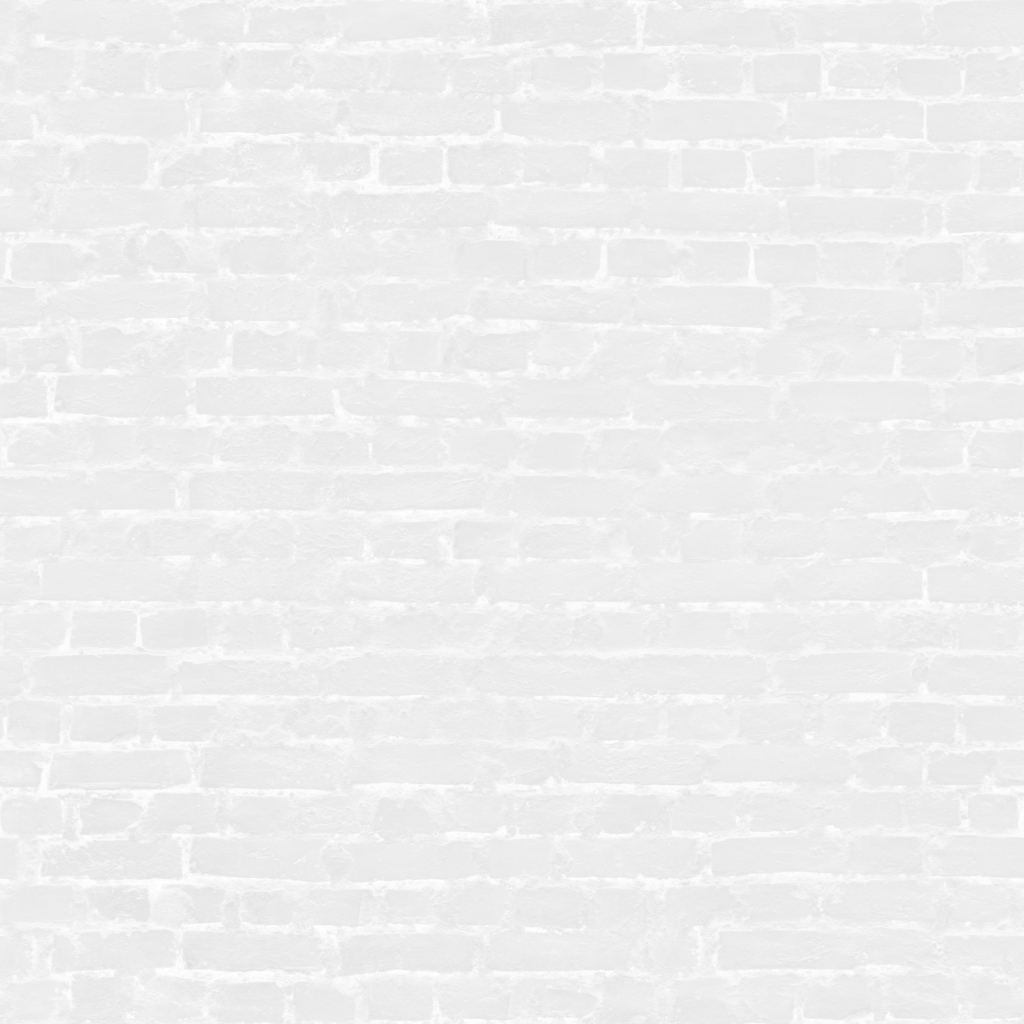
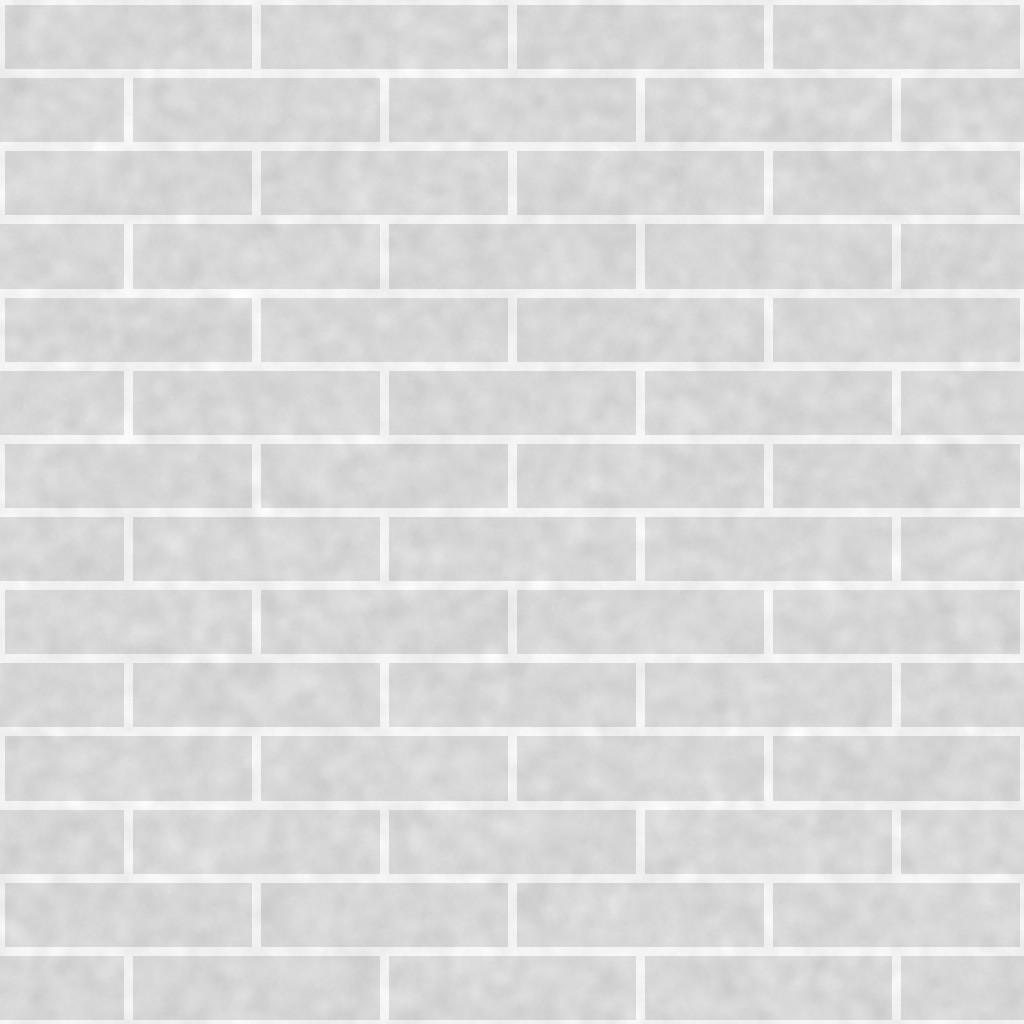
v11b: loft look — reference-size white brick, light neutral tile, real soft shadows (PCFSoft), low fill, mesh-grid shelves, cream rug/pouf, capture vignette; initial framing settles then locks; fix state reset on reload

diff --git a/app.js b/app.js
@@ -86,12 +86,12 @@ function validState(v) {
     w.sections = w.sections.filter(s => s && typeof s === 'object').map(s => { s.w = num(s.w, 10, 200, 60);
       s.items = (Array.isArray(s.items) ? s.items : []).filter(o => o && REAL_DEPTH[o.t] && typeof o.y === 'number' && isFinite(o.y) && o.y >= 0 && o.y <= 300);
       s.items.forEach(o => { if (!REAL_DEPTH[o.t][o.d]) o.d = +Object.keys(REAL_DEPTH[o.t])[0]; if (o.h != null) o.h = num(o.h, 20, 400, 85);
-        if (o.pr != null) o.pr = Array.isArray(o.pr) ? o.pr.filter(p => p && PROPK[p.k]).map(p => ({ k: p.k, u: num(p.u, 0, 1, 0.5) })) : []; });
+        if (o.pr != null) o.pr = Array.isArray(o.pr) ? o.pr.filter(p => p && (typeof PROPK === 'undefined' || !PROPK || PROPK[p.k])).map(p => ({ k: p.k, u: num(p.u, 0, 1, 0.5) })) : []; });
       return s; });
     if (!w.sections.length && wi === 0) bad++; return w; });
   if (bad > 1) return null;
   if (v.plants != null && !Array.isArray(v.plants)) v.plants = [];
-  if (Array.isArray(v.plants)) v.plants = v.plants.filter(p => p && PLANTS[p.k] && isFinite(p.x) && isFinite(p.z)).map(p => ({ ...p, s: num(p.s, 0.3, 3, 1), r: num(p.r, -100, 100, 0) }));
+  if (Array.isArray(v.plants)) v.plants = v.plants.filter(p => p && (typeof PLANTS === 'undefined' || !PLANTS || PLANTS[p.k] || ['fig', 'monstera', 'olive', 'mirror', 'pouf'].includes(p.k)) && isFinite(p.x) && isFinite(p.z)).map(p => ({ ...p, s: num(p.s, 0.3, 3, 1), r: num(p.r, -100, 100, 0) }));
   if (v.room != null && typeof v.room !== 'object') delete v.room; if (v.dm != null && typeof v.dm !== 'object') delete v.dm;
   return v;
 }
@@ -257,10 +257,10 @@ function normalTex(v, str) {
 function setWallCol(m, c) { const col = new THREE.Color(c); m.color.copy(col).multiplyScalar(m.userData.kd); m.emissive.copy(col).multiplyScalar(m.userData.ke); }
 const NSTR = { brick: 7, stone: 7, slats: 6, woodp: 3, conc2: 2.2, beige: 2.6, koroed: 3, trav: 2 };
 // real CC0 photo textures (Poly Haven, 1k) with normal + roughness maps for the key finishes; procedural for the rest
-const PHW = { brick: ['painted_brick', 2.0, 1.4], beige: ['beige_wall_001', 2.4, 1, 1.1], lime: ['white_plaster_02', 2.2, 1] };
+const PHW = { brick: ['painted_brick', 1.04, 1.0], beige: ['beige_wall_001', 2.4, 1, 1.1], lime: ['white_plaster_02', 2.2, 1] };
 function wallMat() { const v = finVar(), ph = PHW[v];
   if (ph) { const rp = (1 / ph[1]).toFixed(4), sunM = S.room.shP === 'sun', m = new THREE.MeshStandardMaterial({ map: tex(ph[0] + '_diff', true, rp), emissiveMap: tex(ph[0] + '_diff', true, rp), normalMap: tex(ph[0] + '_nor_gl', false, rp), normalScale: new THREE.Vector2(ph[2], ph[2]), roughnessMap: tex(ph[0] + '_rough', false, rp), roughness: 1, metalness: 0, envMapIntensity: 0.35, toneMapped: false });
-    const gn = ph[3] || 1; m.userData = { wall: true, kd: (sunM ? 0.6 : 0.66) * gn, ke: (sunM ? 0.36 : 0.38) * gn }; setWallCol(m, S.wall); return m; }
+    const gn = ph[3] || 1, lf = S.roomPre === 'loft' && v === 'brick'; m.userData = lf ? { wall: true, kd: 0.74, ke: 0.05 } : { wall: true, kd: (sunM ? 0.6 : 0.66) * gn, ke: (sunM ? 0.36 : 0.38) * gn }; if (lf) m.roughness = 0.85; setWallCol(m, S.wall); return m; }
   const t = finishTex(v).clone(); t.needsUpdate = true; const k = FINK[v] || 0.9; t.repeat.set(1 / k, 1 / k); const n = normalTex(v, NSTR[v] || 1.4).clone(); n.needsUpdate = true; n.repeat.copy(t.repeat);
   const sunM = S.room.shP === 'sun', m = new THREE.MeshStandardMaterial({ map: t, emissiveMap: t, normalMap: n, roughness: 0.93, metalness: 0, envMapIntensity: 0.25, toneMapped: false });
   m.userData = { wall: true, kd: sunM ? 0.55 : 0.62, ke: sunM ? 0.4 : 0.42 }; /* lit PBR wall: relief reads in the light, emissive keeps the color clean */ setWallCol(m, S.wall); return m; }
@@ -404,6 +404,8 @@ function bracket(g, x, y, L) {
   g.add(box(0.016, 0.02, 0.01, x, y - 0.01, ZB + L - 0.005, M.metal));
 }
 const ROD_G = new THREE.CylinderGeometry(1, 1, 1, 32, 1).translate(0, 0.5, 0), HOOK_G = new THREE.TorusGeometry(0.0175, 0.0042, 12, 32, Math.PI * 1.7), RIV_G = new THREE.CylinderGeometry(0.0035, 0.0035, 0.007, 12);
+let _GRM = null, _GRK = null; function gridMat() { if (_GRM && _GRK === M.metal) return _GRM; const c = document.createElement('canvas'); c.width = c.height = 64; const g = c.getContext('2d'); g.fillStyle = '#000'; g.fillRect(0, 0, 64, 64); g.fillStyle = '#fff'; g.fillRect(0, 0, 64, 9); g.fillRect(0, 0, 9, 64);
+  const t = new THREE.CanvasTexture(c); t.wrapS = t.wrapT = THREE.RepeatWrapping; t.repeat.set(34, 15); t.anisotropy = 4; _GRK = M.metal; _GRM = M.metal.clone(); _GRM.alphaMap = t; _GRM.alphaTest = 0.5; _GRM.side = THREE.DoubleSide; _GRM.normalMap = null; return _GRM; }
 let _CHE = null; function chromeEnv() { if (_CHE) return _CHE; const c = document.createElement('canvas'); c.width = 512; c.height = 256; const g = c.getContext('2d');
   const gr = g.createLinearGradient(0, 0, 0, 256); gr.addColorStop(0, '#fdfdfd'); gr.addColorStop(0.36, '#c9ced4'); gr.addColorStop(0.49, '#3a3d42'); gr.addColorStop(0.55, '#16171a'); gr.addColorStop(0.75, '#6b6e72'); gr.addColorStop(1, '#2a2b2d'); g.fillStyle = gr; g.fillRect(0, 0, 512, 256);
   g.fillStyle = '#ffffff'; [[40, 50], [200, 30], [330, 60], [450, 24]].forEach(([x, w]) => g.fillRect(x, 30, w, 70));
@@ -431,7 +433,7 @@ function buildItem(g, item, x0, x1, sec) {
     const lip = new THREE.Mesh(new RoundedBoxGeometry(x1 - x0 - 0.002, 0.042, 0.008, 2, 0.0028), M.metal); lip.position.set(mid, y - 0.01, zf + 0.004); lip.castShadow = lip.receiveShadow = true; g.add(lip);
     const rim = new THREE.Mesh(new RoundedBoxGeometry(x1 - x0 - 0.002, 0.009, 0.02, 2, 0.0035), M.metal); rim.position.set(mid, y + 0.0075, zf - 0.006); rim.castShadow = true; g.add(rim);
   } else if (item.t === 'metal') {
-    g.add(box(x1 - x0, 0.0045, dep, mid, y + 0.00225, z0 + dep / 2, M.metal));
+    g.add(box(x1 - x0, 0.0045, dep, mid, y + 0.00225, z0 + dep / 2, S.roomPre === 'loft' ? gridMat() : M.metal));
     const f = new THREE.Mesh(new RoundedBoxGeometry(x1 - x0, 0.038, 0.007, 2, 0.0025), M.metal); f.position.set(mid, y - 0.015, zf); f.castShadow = true; g.add(f);
     g.add(box(x1 - x0, 0.024, 0.006, mid, y + 0.012, z0, M.metal));
   } else if (item.t === 'ldsp') {
@@ -751,8 +753,8 @@ function mirrorModel() { const g = new THREE.Group(), W = 0.62, H = 1.72, f = 0.
   g.position.z = 0; return g; }
 // square upholstered pouf in soft velvet with a piped top edge
 function poufModel() { const g = new THREE.Group(), s = 0.42, h = 0.44;
-  const c = document.createElement('canvas'); c.width = c.height = 128; const x = c.getContext('2d'); x.fillStyle = '#8f7570'; x.fillRect(0, 0, 128, 128);
-  for (let i = 0; i < 1800; i++) { x.fillStyle = `rgba(${Math.random() < 0.5 ? '255,240,235' : '40,20,20'},${Math.random() * 0.08})`; x.fillRect(Math.random() * 128, Math.random() * 128, 1 + Math.random() * 2, 1); }
+  const c = document.createElement('canvas'); c.width = c.height = 128; const x = c.getContext('2d'); x.fillStyle = '#e6dfd3'; x.fillRect(0, 0, 128, 128);
+  for (let i = 0; i < 1800; i++) { x.fillStyle = `rgba(${Math.random() < 0.5 ? '255,255,250' : '90,80,70'},${Math.random() * 0.08})`; x.fillRect(Math.random() * 128, Math.random() * 128, 1 + Math.random() * 2, 1); }
   const t = new THREE.CanvasTexture(c); t.colorSpace = THREE.SRGBColorSpace; t.wrapS = t.wrapT = THREE.RepeatWrapping;
   const m = new THREE.MeshPhysicalMaterial({ map: t, roughness: 0.85, sheen: 1, sheenRoughness: 0.45, sheenColor: new THREE.Color(0xe7cfc8), envMapIntensity: 0.5 });
   const b = new THREE.Mesh(new RoundedBoxGeometry(s, h - 0.03, s, 5, 0.06), m); b.position.y = (h - 0.03) / 2 + 0.03; b.castShadow = b.receiveShadow = true; g.add(b);
@@ -1195,8 +1197,18 @@ function applyGlareShadow() {
   specL.intensity = gmode === 'bright' ? 2.2 : gmode === 'soft' ? 0.5 : 0; specL.target.position.copy(c); tickSpec();
   const gm = { soft: 1, bright: 1, off: 0.35 }[gmode];
   scene.traverse(o => { if (o.isMesh && o.material && o.material.isMeshStandardMaterial && !o.material.isMeshPhysicalMaterial && o.material !== M.chrome && !o.material.userData.wall) o.material.envMapIntensity = (o.material.metalness > 0.6 ? 1.0 : 0.9) * gm; });
-  sunMode();
+  sunMode(); loftLights();
 }
+const _isPhone = /iPhone|iPad|iPod|Android/.test(navigator.userAgent);
+function loftLights() { const lf = S.roomPre === 'loft' && !S.studio && !S.sun && !(photo && !$('showRoom').checked);
+  const want = lf ? THREE.PCFSoftShadowMap : THREE.PCFShadowMap; if (renderer.shadowMap.type !== want) { renderer.shadowMap.type = want; scene.traverse(o => { if (o.material && !Array.isArray(o.material)) o.material.needsUpdate = true; }); }
+  if (!lf) return; const c = bbox.getCenter(new THREE.Vector3()), ms = _isPhone ? 1024 : 2048;
+  if (sun.shadow.mapSize.x !== ms) { sun.shadow.mapSize.set(ms, ms); sun.shadow.map && (sun.shadow.map.dispose(), sun.shadow.map = null); }
+  sun.castShadow = true; sun.color.set(0xffffff); sun.intensity = 1.9; sun.position.set(c.x + 2, 4, c.z + 3); sun.target.position.set(c.x, c.y, 0); sun.target.updateMatrixWorld();
+  Object.assign(sc, { left: -4, right: 4, top: 4, bottom: -4, near: 0.5, far: 14 }); sc.updateProjectionMatrix(); sun.shadow.bias = -0.0005; sun.shadow.normalBias = 0.02; sun.shadow.radius = 3;
+  hemi.color.set(0xffffff); hemi.groundColor.set(0xe8e4de); hemi.intensity = 0.32; fill.color.set(0xf4f6ff); fill.intensity = 0.42; fill.position.set(c.x - 4, 2.2, c.z + 1.5); sideFill.intensity = 0; gobo.intensity = 0; rim.intensity = 0.25;
+  try { glow.color.set(0xffffff); glow.intensity = 1.6; glow.angle = 0.95; glow.penumbra = 1; glow.decay = 0; glow.position.set(c.x, 2.4, c.z + 3.6); glow.target.position.set(c.x, 1.3, 0); glow.target.updateMatrixWorld(); } catch (e) {}
+  renderer.toneMappingExposure = 1.15; }
 function setBg() { scene.background = photo && !$('showRoom').checked ? null : new THREE.Color(S.studio ? (S.bg || '#e2ded7') : S.room && S.room.ceiling ? '#fbfbf9' : '#e9e6e0'); }
 
 // ---------- export ----------
@@ -1622,8 +1634,14 @@ $('viewMode').onchange = e => { S.view = e.target.value; rebuild(); };
 $('preset').onchange = e => { S.preset = e.target.value; if (S.preset === 'warm') { S.wall = '#ecdcc8'; S.floor = 'oak'; } fillGeneral(); rebuild(); };
 fillGeneral(); setBg(); resize(); rebuild(); renderSec(); cardUI(); if (S._cam) { lastCam = S._cam; delete S._cam; } camTo(lastCam === 'card' ? 'card' : 'nice');
 // iOS settles the canvas size late (toolbar, safe areas): refit once the final size is known
-{ const late = () => { if (lastCam === 'card' || window.__userCam) return; try { resize(); fitView(); } catch (e) {} }; requestAnimationFrame(() => requestAnimationFrame(late)); setTimeout(late, 350); setTimeout(late, 900); setTimeout(late, 1800); setTimeout(late, 3200); addEventListener('load', late); THREE.DefaultLoadingManager.onLoad = () => setTimeout(late, 60); addEventListener('orientationchange', () => { window.__userCam = false; setTimeout(late, 400); });
-  if (window.visualViewport) { let vt = 0; visualViewport.addEventListener('resize', () => { clearTimeout(vt); vt = setTimeout(late, 150); }); } }
+{ // initial framing: fit repeatedly while layout/fonts/textures settle (canvas hidden), then lock; later only Ракурс/Сброс/rotation/size changes refit
+  const cv = renderer.domElement; cv.style.opacity = '0'; cv.style.transition = 'opacity .35s'; let locked = false, ld = false, fn = false;
+  const late = () => { if (locked || lastCam === 'card' || window.__userCam) return; try { resize(); fitView(); } catch (e) {} };
+  const lock = () => { if (locked) return; late(); locked = true; window.__camLocked = true; cv.style.opacity = '1'; };
+  const tryLock = () => { if (ld && fn) setTimeout(lock, 250); };
+  requestAnimationFrame(() => requestAnimationFrame(late)); setTimeout(late, 350); setTimeout(late, 900); addEventListener('load', late); setTimeout(lock, 2600);
+  THREE.DefaultLoadingManager.onLoad = () => { ld = true; late(); tryLock(); }; (document.fonts ? document.fonts.ready : Promise.resolve()).then(() => { fn = true; late(); tryLock(); });
+  if (window.visualViewport) visualViewport.addEventListener('resize', () => { if (!locked) late(); }); }
 const _x=0;window.__gs = { proj: (wi, si, ii) => { let g = null; model.traverse(o => { const r = o.userData.ref; if (r && r.wi === wi && r.si === si && r.ii === ii) g = o; }); const b = new THREE.Box3().setFromObject(g), p = b.getCenter(new THREE.Vector3()); p.z = b.max.z - 0.02; p.y = b.max.y - 0.005; p.project(camera); const r = renderer.domElement.getBoundingClientRect(); return [r.left + (p.x + 1) / 2 * r.width, r.top + (1 - p.y) / 2 * r.height]; }, get cur() { return cur; }, get orb() { return orb; }, get model() { return model; }, vlean: () => { camera.updateMatrixWorld(); const r = renderer.domElement.getBoundingClientRect(), o = []; [[0.2, 0.2], [1.5, 0.05], [3, 0.05], [0.05, 1.5], [0.05, 0.05]].forEach(([x, z]) => { const a = V(x, 0.1, z).project(camera), b = V(x, 2.2, z).project(camera); o.push(+(((a.x - b.x) / 2) * r.width).toFixed(2)); }); return o; }, get room() { return room; }, get S() { return S; }, set S(v) { S = v; }, rebuild, renderSec, fillGeneral, cardUI, makeCard, makeCardAsync: async () => { cardRead(); await fontsFor(S.card); return makeCard(); }, camTo, setOrb: (az, h, R, tx, ty, tz) => { orb.on = true; controls.enabled = false; orb.az = az; orb.h = h; orb.R = R; orb.T.set(tx, ty, tz); }, dimsG, projP: i => { const p = S.plants[i], v = V(p.x, 0.15, p.z).project(camera), r = renderer.domElement.getBoundingClientRect(); return [r.left + (v.x + 1) / 2 * r.width, r.top + (1 - v.y) / 2 * r.height]; }, setLayout: l => { $('layout').value = l; $('layout').onchange({ target: $('layout') }); }, setDims };
 document.fonts.ready.then(() => rebuild());
 // ---------- v4 extra controls ----------
@@ -1914,7 +1932,7 @@ function snap34() {
   renderer.render(scene, camera);
   const out = document.createElement('canvas'); out.width = CW; out.height = CH; const g = out.getContext('2d');
   if (photoImg && !$('showRoom').checked) { const s = Math.max(CW / photoImg.width, CH / photoImg.height), iw = photoImg.width * s, ih = photoImg.height * s; g.drawImage(photoImg, (CW - iw) / 2, (CH - ih) / 2, iw, ih); }
-  g.drawImage(renderer.domElement, 0, 0, CW, CH); fxBake(g, CW, CH); if (real) { sun.castShadow = rsv.cs; sun.shadow.radius = rsv.r; if (rsv.fx == null) localStorage.removeItem('gs_fx'); else localStorage.setItem('gs_fx', rsv.fx); }
+  g.drawImage(renderer.domElement, 0, 0, CW, CH); fxBake(g, CW, CH); { const vg = g.createRadialGradient(CW / 2, CH / 2, CH * 0.35, CW / 2, CH / 2, CH * 0.75); vg.addColorStop(0, 'rgba(0,0,0,0)'); vg.addColorStop(1, 'rgba(0,0,0,0.22)'); g.fillStyle = vg; g.fillRect(0, 0, CW, CH); } if (real) { sun.castShadow = rsv.cs; sun.shadow.radius = rsv.r; if (rsv.fx == null) localStorage.removeItem('gs_fx'); else localStorage.setItem('gs_fx', rsv.fx); }
   sun.shadow.mapSize.set(sm, sm); sun.shadow.map && (sun.shadow.map.dispose(), sun.shadow.map = null);
   renderer.setPixelRatio(sv.pr); resize(); camera.position.copy(sv.pos); camera.quaternion.copy(sv.q); if (orb.on) applyCam();
   return out;
@@ -1983,7 +2001,7 @@ function fxBake(g, W, H) { if (!fxOn()) return; const p = FXP[camK()] || FXP.std
   g.putImageData(im, 0, 0); }
 $('fxBtn').onclick = () => { localStorage.setItem('gs_fx', fxOn() ? '0' : '1'); fxUI(); msg('Эффект: ' + (fxOn() ? 'вкл' : 'выкл')); };
 addEventListener('resize', () => setTimeout(fxUI, 50)); fxUI();
-{ let rt = 0; const refit = () => { clearTimeout(rt); rt = setTimeout(() => { try { resize(); fitView(); } catch (e) {} }, 150); }; addEventListener('resize', refit); addEventListener('orientationchange', refit); }
+{ let rt = 0; const refit = () => { clearTimeout(rt); rt = setTimeout(() => { try { resize(); fitView(); } catch (e) {} }, 150); }; let lw = innerWidth; addEventListener('resize', () => { if (!window.__camLocked) return; if (innerWidth !== lw) { lw = innerWidth; window.__userCam = false; refit(); } else resize(); }); addEventListener('orientationchange', () => { window.__userCam = false; lw = innerWidth; refit(); }); }
 { const o = lensUI; lensUI = function () { o(); try { fxUI(); } catch (e) {} }; }
 
 // ---- v10 props: add to the selected (or first fitting) shelf / rod, drag along it with a finger, delete with 🗑
@@ -2022,7 +2040,7 @@ renderPropBtns();
 
 // ---- room presets: one tap sets walls, floor, rug, window, light and decor (the wardrobe itself is untouched)
 const ROOMP = {
-  loft: ['Кирпичный лофт', { wallFin: 'relief', fv: 'brick', wall: '#f4f2ee', floor: 'tile2', rug: { shape: 'rect', pile: 'jute' }, win: true, winX: -1, shP: 'soft', metal: 'black', plants: ['mirror', 'pouf'] }],
+  loft: ['Кирпичный лофт', { wallFin: 'relief', fv: 'brick', wall: '#fcfcfc', floor: 'tile2', rug: { shape: 'rect', pile: 'fluffy' }, win: true, winX: -1, shP: 'soft', metal: 'black', plants: ['mirror', 'pouf'] }],
   beige: ['Светлый бежевый', { wallFin: 'plaster', fv: 'beige', wall: '#f4ebe3', floor: 'oak', rug: { shape: 'round', pile: 'fluffy' }, win: true, winX: 0, shP: 'sun', winL: 'both', plants: ['olive'] }],
   scandi: ['Скандинавский', { wallFin: 'paint', fv: 'matte', wall: '#f1efea', floor: 'lam', rug: { shape: 'rect', pile: 'flat' }, win: false, shP: 'soft', plants: ['fig', 'pouf'] }],
   conc: ['Бетон и дуб', { wallFin: 'relief', fv: 'conc2', wall: '#d9d6d1', floor: 'lamD', rug: null, win: false, shP: 'left', plants: ['monstera', 'mirror'] }] };
@@ -2078,7 +2096,7 @@ async function vizShot(opt = {}) {
     if (!o.isMesh || !o.material || Array.isArray(o.material)) return; const m = o.material;
     if (m.isShadowMaterial || (m.isMeshBasicMaterial && (m.transparent || m.opacity < 1 || m.blending !== THREE.NormalBlending))) { hide(o); return; }
     let n = null;
-    if (m.isMeshBasicMaterial) { n = m.map && m.toneMapped === false ? new THREE.MeshStandardMaterial({ color: 0x000000, emissive: 0xffffff, emissiveMap: m.map, emissiveIntensity: 2.6, side: m.side }) : new THREE.MeshStandardMaterial({ color: m.color, map: m.map, roughness: 0.9, side: m.side }); }
+    if (m.isMeshBasicMaterial) { n = m.map && m.toneMapped === false ? new THREE.MeshStandardMaterial({ color: 0x000000, emissive: 0xffffff, emissiveMap: m.map, emissiveIntensity: 1.3, side: m.side }) : new THREE.MeshStandardMaterial({ color: m.color, map: m.map, roughness: 0.9, side: m.side }); }
     else if (m.emissive && (m.emissive.r + m.emissive.g + m.emissive.b) > 0.001) { n = m.clone(); n.emissive = new THREE.Color(0); n.emissiveMap = null; if (m.emissiveMap) n.color.multiplyScalar(1.25); }
     if (n) { sw.push([o, m]); o.material = n; } });
   M.rod && sw.length; scene.environment = skyEquirect(); scene.background = scene.environment; if ('environmentIntensity' in scene) scene.environmentIntensity = 1;

diff --git a/index.html b/index.html
@@ -2,7 +2,7 @@
 <meta http-equiv="Cache-Control" content="no-cache, no-store, must-revalidate"><meta http-equiv="Pragma" content="no-cache"><meta http-equiv="Expires" content="0"><meta charset="utf-8"><meta name="viewport" content="width=device-width,initial-scale=1,maximum-scale=1">
 <link rel="icon" href="data:,"><title>Конструктор гардеробной ТИТАН GS</title>
 <link rel="preconnect" href="https://fonts.googleapis.com"><link rel="preconnect" href="https://fonts.gstatic.com" crossorigin><link href="https://fonts.googleapis.com/css2?family=Inter:wght@400;500;700;800&family=Manrope:wght@400;500;600;700;800&family=Montserrat:wght@400;500;700;800&family=Playfair+Display:wght@500;600;700&display=swap" rel="stylesheet">
-<link rel="stylesheet" href="style.css?v=v11a">
+<link rel="stylesheet" href="style.css?v=v11b">
 <script type="importmap">{"imports":{"three":"https://cdn.jsdelivr.net/npm/three@0.160.0/build/three.module.js","three/addons/":"https://cdn.jsdelivr.net/npm/three@0.160.0/examples/jsm/","three/examples/jsm/":"https://cdn.jsdelivr.net/npm/three@0.160.0/examples/jsm/","three-mesh-bvh":"https://cdn.jsdelivr.net/npm/three-mesh-bvh@0.7.8/build/index.module.js","three-gpu-pathtracer":"https://cdn.jsdelivr.net/npm/three-gpu-pathtracer@0.0.23/build/index.module.js"}}</script>
 </head><body>
 <div id="topbar"><div class="seg" id="szV"></div><button id="mirrorBtn" title="Отзеркалить всю конструкцию">⇄<span class="mtx"> Зеркально</span></button><button id="fxBtn" class="snd" title="Эффект" aria-label="Эффект"><svg viewBox="0 0 24 24" fill="none" stroke="currentColor" stroke-width="1.7" stroke-linecap="round"><path d="M12 3v3M12 18v3M3 12h3M18 12h3M5.6 5.6l2.1 2.1M16.3 16.3l2.1 2.1M5.6 18.4l2.1-2.1M16.3 7.7l2.1-2.1"/><circle cx="12" cy="12" r="2.6"/></svg></button><button id="lensBtn" class="snd" title="Камера: Обычная" aria-label="Камера"><svg viewBox="0 0 24 24" fill="none" stroke="currentColor" stroke-width="1.7"><circle cx="12" cy="12" r="8"/><circle class="l2" cx="12" cy="12" r="4"/><path class="l3" d="M12 4v3M12 17v3M4 12h3M17 12h3"/></svg></button><button id="sndBtn" class="snd" title="Звук" aria-label="Звук"><svg viewBox="0 0 24 24" fill="none" stroke="currentColor" stroke-width="1.7" stroke-linecap="round" stroke-linejoin="round"><path d="M4 9.5h3.2L12 5.5v13l-4.8-4H4z"/><path class="w1" d="M15.5 9.2a4 4 0 0 1 0 5.6"/><path class="w2" d="M18.2 6.8a7.4 7.4 0 0 1 0 10.4"/><path class="mx" d="M16 9.5l5 5M21 9.5l-5 5"/></svg></button><button id="moreBtn" title="Сохранить, загрузить, ссылка, шаблоны, снимки">⋯</button>
@@ -102,5 +102,5 @@
 </div>
 <p class="foot">Размеры элементов взяты из каталога ТИТАН GS 2024. Визуализация ориентировочная.</p>
 </div></div>
-<script type="module" src="app.js?v=v11a"></script>
+<script type="module" src="app.js?v=v11b"></script>
 </body></html>
